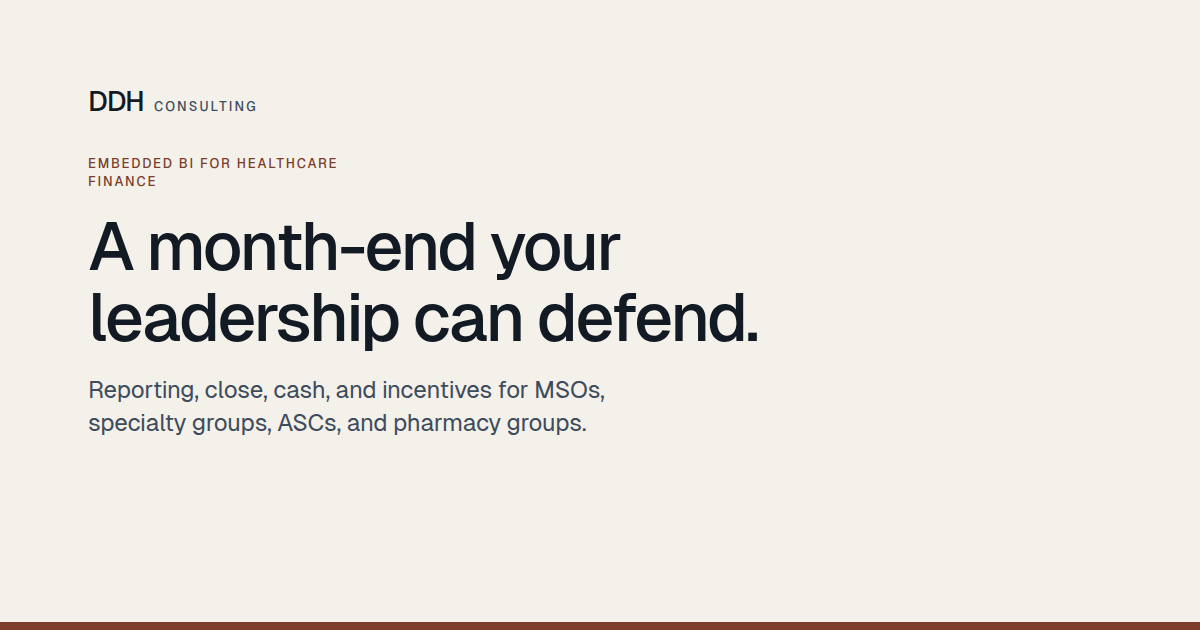
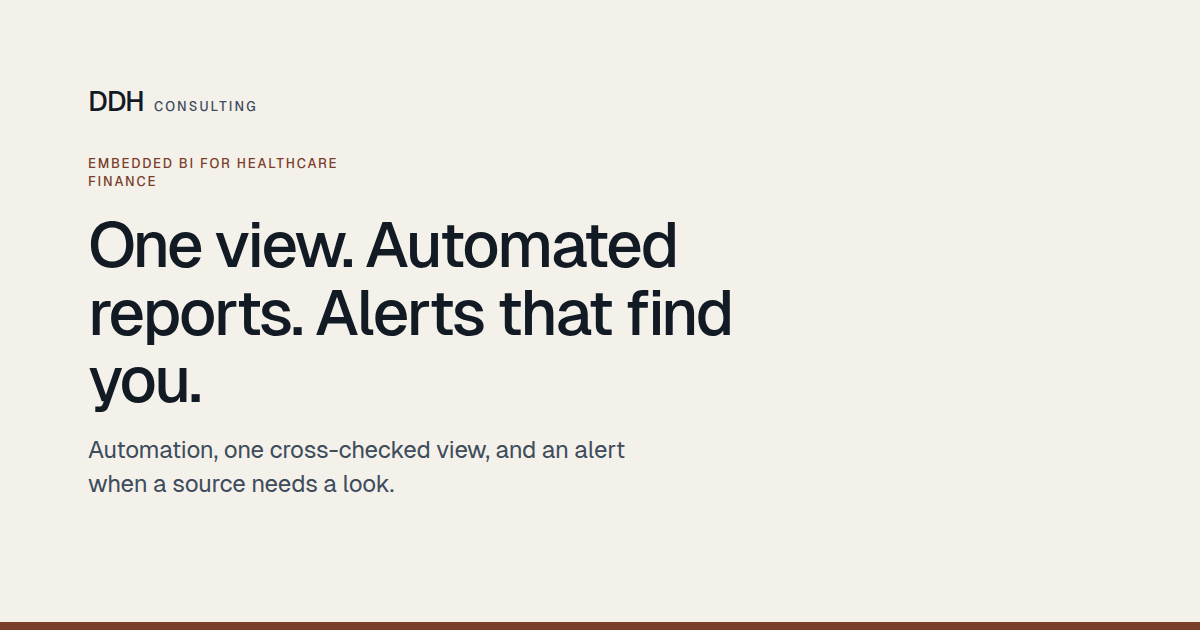
Reframe the hero around one view, automation, and alerts
Replace the month-end headline with a concrete retainer promise, and show a cross-referenced illustrative view with an example alert.

Changed region(s): [[0.0617, 0.3317, 0.6475, 0.5429], [0.0617, 0.573, 0.5242, 0.7238], [0.0617, 0.754, 0.3392, 0.7841]]

diff --git a/index.html b/index.html
@@ -4,9 +4,9 @@
 <meta charset="UTF-8">
 <meta name="viewport" content="width=device-width, initial-scale=1.0">
 <title>DDH Consulting | Embedded BI &amp; Reporting for Healthcare</title>
-<meta name="description" content="DDH Consulting is an embedded BI, reporting, and automation partner for healthcare finance leaders at MSOs, specialty groups, ASCs, and pharmacy groups.">
-<meta property="og:title" content="DDH Consulting | A month-end your leadership can defend">
-<meta property="og:description" content="An embedded BI, reporting, and automation retainer for healthcare finance and operations. Close, cash, incentives, and the systems behind them.">
+<meta name="description" content="DDH Consulting embeds with healthcare groups to automate reporting, cross-check finance, claims, operations, and provider data, and alert leadership when something needs a person.">
+<meta property="og:title" content="DDH Consulting | One view. Automated reports. Alerts that find you.">
+<meta property="og:description" content="An embedded monthly retainer for MSOs, physician groups, ASCs, and pharmacy groups. Automation, one cross-checked view, and alerts when a source needs a look.">
 <meta property="og:url" content="https://ddhbiconsulting.com/">
 <meta property="og:type" content="website">
 <meta property="og:image" content="https://ddhbiconsulting.com/social-card.png">
@@ -14,8 +14,8 @@
 <meta property="og:image:height" content="630">
 <meta property="og:site_name" content="DDH Consulting">
 <meta name="twitter:card" content="summary_large_image">
-<meta name="twitter:title" content="DDH Consulting | A month-end your leadership can defend">
-<meta name="twitter:description" content="An embedded BI, reporting, and automation retainer for healthcare finance and operations.">
+<meta name="twitter:title" content="DDH Consulting | One view. Automated reports. Alerts that find you.">
+<meta name="twitter:description" content="An embedded monthly retainer for healthcare groups. Automation, one cross-checked view, and alerts when a source needs a look.">
 <meta name="twitter:image" content="https://ddhbiconsulting.com/social-card.png">
 <link rel="canonical" href="https://ddhbiconsulting.com/">
 <link rel="icon" type="image/svg+xml" href="/favicon.svg?v=2">
@@ -40,7 +40,7 @@
   "@context": "https://schema.org",
   "@type": ["ProfessionalService", "LocalBusiness"],
   "name": "DDH Consulting",
-  "description": "DDH Consulting is an embedded BI, reporting, and automation partner for healthcare organizations. The firm works with finance and operations leaders at MSOs, physician and specialty groups, ambulatory surgery centers, and multi-location pharmacy groups on dashboards, month-end close, cash and forecasting, commission and incentive calculations, data pipelines, and BI modernization.",
+  "description": "DDH Consulting is an embedded BI, reporting, and automation partner for healthcare organizations. On a monthly retainer, the firm improves current reporting processes with automation, gives leadership one cross-referenced view of finance, claims, operations, and provider data, and sends alerts when something needs a person.",
   "url": "https://ddhbiconsulting.com",
   "email": "contact@ddhbiconsulting.com",
   "founder": {
@@ -66,7 +66,7 @@
   "@type": "FAQPage",
   "mainEntity": [
     {"@type": "Question","name": "Who is the retainer for?","acceptedAnswer": {"@type": "Answer","text": "Management services organizations, PE-backed physician and specialty groups (often on the order of 20 to 150 providers), ambulatory surgery centers and specialty groups, and multi-location pharmacy groups. The conversation is usually with a CFO, controller, COO, administrator, or operating partner."}},
-    {"@type": "Question","name": "What does a typical month include?","acceptedAnswer": {"@type": "Answer","text": "Scheduled management reporting, attention to the close, cash and forecast updates, commission or incentive calculations when they are in scope, a leadership review, and continued work on the pipelines and models. The mix is set in a written proposal after the Diagnostic."}},
+    {"@type": "Question","name": "What does a typical month include?","acceptedAnswer": {"@type": "Answer","text": "Automated reports, a cross-check across finance, claims, operations, and provider data, alerts when those sources stop agreeing, a leadership review, and continued work on the pipelines. Month-end close, cash, and incentive calculations are examples of that work when they are in scope. The mix is set in a written proposal after the Diagnostic."}},
     {"@type": "Question","name": "What is the Data & Reporting Diagnostic?","acceptedAnswer": {"@type": "Answer","text": "It is the first step after an introductory call. We review source systems, definitions, the close, and the questions leadership still cannot answer, then we write up the gaps and a recommended scope. Onboarding does not start until that proposal is agreed."}},
     {"@type": "Question","name": "Are the focus areas separate engagements?","acceptedAnswer": {"@type": "Answer","text": "No. Month-End Autopilot, Cash Truth, the Commission Engine, and BI Modernization are parts of the retainer. Some organizations need all four. Most begin with the ones the Diagnostic ranks highest."}},
     {"@type": "Question","name": "What systems do you work with?","acceptedAnswer": {"@type": "Answer","text": "The systems you already run: practice management, pharmacy, billing and claims, accounting, banking, and payroll, and the databases behind them. Reporting is delivered in Power BI, Excel, or Microsoft Fabric. If a system can produce an export or can be queried, we can work with it. Public datasets, including CMS and NPPES, are used where they improve a provider or market view."}},
@@ -122,8 +122,19 @@
   <div class="wrap hero-grid">
     <div>
       <p class="eyebrow">Embedded BI for healthcare finance</p>
-      <h1>A month-end your leadership can defend.</h1>
-      <p class="lede">DDH Consulting sits with finance and operations leaders at MSOs, physician and specialty groups, ASCs, and multi-location pharmacy groups. We build the reporting, the close, the cash picture, and the incentive calculations, and we keep them current on a monthly retainer.</p>
+      <!--
+        HERO OPTIONS. To swap, replace the h1 and the lede, then the title, description, and og/twitter tags in the head.
+        A (live): One view. Automated reports. Alerts that find you.
+          DDH embeds with MSOs, physician and specialty groups, ASCs, and pharmacy groups, automates the reporting you already run, cross-checks finance, claims, operations, and provider data, and notifies leadership when something needs a person.
+        B: See the whole business, and what just changed.
+          A monthly retainer that improves the reporting process with automation, puts finance, claims, operations, and provider data in one view, and sends an alert when they stop agreeing.
+        C: Cross-check the business. Flag what needs a look.
+          We sit with healthcare finance and operations leaders, automate the reports they already chase, and cross-reference the sources so issues show up without a dig through the files.
+        D: Stop digging. Let the issues come to you.
+          DDH improves current reporting with automation, gives leadership one view across the business, and notifies the right people when a number needs a decision.
+      -->
+      <h1>One view. Automated reports. Alerts that find you.</h1>
+      <p class="lede">DDH embeds with MSOs, physician and specialty groups, ASCs, and pharmacy groups, automates the reporting you already run, cross-checks finance, claims, operations, and provider data, and notifies leadership when something needs a person.</p>
       <div class="cta-row">
         <a class="btn btn-primary" href="https://calendly.com/pedroodahdah/30min" target="_blank" rel="noopener">Schedule a consultation</a>
         <a class="btn btn-secondary" href="/checkup.html">Take the free Reporting Health Check</a>
@@ -132,24 +143,26 @@
     </div>
     <div>
       <div class="board in" id="board" aria-hidden="true">
-        <div class="board-top"><span class="pill">Illustrative</span><span>Month view</span></div>
-        <div class="kpis">
-          <div class="kpi"><span>Close day</span><strong data-count="8">8</strong></div>
-          <div class="kpi"><span>Open items</span><strong data-count="4">4</strong></div>
-          <div class="kpi"><span>Sites in view</span><strong data-count="12">12</strong></div>
+        <div class="board-top"><span class="pill">Illustrative</span><span>Cross-referenced view</span></div>
+        <div class="sources">
+          <div class="source"><i></i>Finance</div>
+          <div class="source"><i></i>Claims</div>
+          <div class="source"><i></i>Operations</div>
+          <div class="source"><i></i>Providers</div>
         </div>
         <svg class="spark" viewBox="0 0 320 72" aria-hidden="true">
           <path class="area" d="M4 52 C40 50 48 28 80 30 C120 32 130 18 168 20 C210 22 220 40 260 28 C290 20 304 16 316 12 L316 68 L4 68 Z"/>
           <path pathLength="100" d="M4 52 C40 50 48 28 80 30 C120 32 130 18 168 20 C210 22 220 40 260 28 C290 20 304 16 316 12"/>
         </svg>
-        <div class="bars">
-          <div class="bar"><i style="--h:46%"></i><em>A</em></div>
-          <div class="bar"><i style="--h:72%"></i><em>B</em></div>
-          <div class="bar"><i style="--h:58%"></i><em>C</em></div>
-          <div class="bar"><i style="--h:84%"></i><em>D</em></div>
+        <div class="alert-card">
+          <span class="alert-dot"></span>
+          <div>
+            <strong>Alert · example only</strong>
+            <p>Two of these sources no longer agree. A person should look.</p>
+          </div>
         </div>
       </div>
-      <p class="board-caption">Example composition for the layout. Not a client result.</p>
+      <p class="board-caption">Illustrative layout. Not a client result, and not a real notification.</p>
     </div>
   </div>
 </section>
@@ -159,7 +172,7 @@
     <div class="section-head">
       <p class="eyebrow reveal">Who we serve</p>
       <h2 class="reveal">Organizations that have outgrown the workbook.</h2>
-      <p class="lede reveal">Finance and operations leaders who need reporting they can stand behind, and who are not staffing a full internal BI team to get it.</p>
+      <p class="lede reveal">Finance and operations leaders who want one view of the business, and who are not staffing a full internal BI team to get it.</p>
     </div>
     <ol class="index-list">
       <li class="reveal">
@@ -207,8 +220,8 @@
   <div class="wrap split">
     <div class="sticky-copy">
       <p class="eyebrow reveal">The situation</p>
-      <h2 class="reveal">The data is there. The system is not.</h2>
-      <p class="reveal">The organizations we sit with already have a practice, pharmacy, or billing system, a general ledger, bank activity, and payroll. None of it becomes a monthly picture until someone stitches it together. That stitching is the work.</p>
+      <h2 class="reveal">The sources never sit in one view.</h2>
+      <p class="reveal">Finance, claims, operations, and provider data already exist. They do not cross-check themselves, and nobody is told when they drift. Someone still has to go looking. Automation is how that stops.</p>
     </div>
     <div>
       <article class="issue reveal">
@@ -243,8 +256,8 @@
   <div class="wrap">
     <div class="section-head">
       <p class="eyebrow reveal">The retainer</p>
-      <h2 class="reveal">What an embedded partner does, month to month.</h2>
-      <p class="lede reveal">One principal is accountable for the reporting, the close, the cash picture, the calculations in scope, and the models those numbers come from. You meet that same person at the leadership review.</p>
+      <h2 class="reveal">What the retainer runs, month to month.</h2>
+      <p class="lede reveal">One principal automates the reports, keeps a cross-check across the sources in scope, and makes sure an alert reaches leadership when something needs a person. You meet that same person at the review.</p>
     </div>
     <div class="month-grid">
       <article class="month-card reveal"><span>01</span><h3>The package lands</h3><p>Management reporting by location, provider, payer, or service line, on a schedule.</p></article>
@@ -277,7 +290,7 @@
     <div class="section-head">
       <p class="eyebrow reveal">Focus areas</p>
       <h2 class="reveal">Four workstreams. One engagement.</h2>
-      <p class="lede reveal">These are the kinds of work a retainer includes, weighted to what the Diagnostic finds. They are parts of the engagement, not a menu.</p>
+      <p class="lede reveal">Month-End Autopilot, Cash Truth, the Commission Engine, and BI Modernization are examples of the automation inside the retainer. They are weighted to what the Diagnostic finds. They are parts of one engagement, not a menu.</p>
     </div>
     <div class="streams">
       <article class="stream reveal">
@@ -342,7 +355,7 @@
     <div class="section-head">
       <p class="eyebrow reveal">Why DDH</p>
       <h2 class="reveal">Healthcare finance, and the data underneath it.</h2>
-      <p class="lede reveal">The judgment and the system stay with one principal. Reporting that does not tie to the bank, the remittance, or the general ledger is not finished.</p>
+      <p class="lede reveal">The judgment and the system stay with one principal. A view that does not cross-check the bank, the remittance, the claims file, and the provider record is not finished.</p>
     </div>
     <div class="expert-grid">
       <article class="expert reveal"><div class="icon-bubble" aria-hidden="true"><svg viewBox="0 0 24 24" fill="none" stroke="currentColor" stroke-width="1.6"><path d="M4 7h16M6 7V5h12v2M7 7l1 12h8l1-12"/></svg></div><h3>Claims and revenue-cycle data</h3><p>What was billed, what was collected, and where the two disagree, by payer, site, and provider.</p></article>
@@ -426,7 +439,7 @@
       <h2 class="reveal">Common questions.</h2>
     </div>
     <div class="faq-item reveal"><button class="faq-q" type="button" aria-expanded="false">Who is the retainer for?<span aria-hidden="true">+</span></button><div class="faq-a"><div>Management services organizations, PE-backed physician and specialty groups (often on the order of 20 to 150 providers), ambulatory surgery centers and specialty groups, and multi-location pharmacy groups. The conversation is usually with a CFO, controller, COO, administrator, or operating partner.</div></div></div>
-    <div class="faq-item reveal"><button class="faq-q" type="button" aria-expanded="false">What does a typical month include?<span aria-hidden="true">+</span></button><div class="faq-a"><div>Scheduled management reporting, attention to the close, cash and forecast updates, commission or incentive calculations when they are in scope, a leadership review, and continued work on the pipelines and models. The mix is set in a written proposal after the Diagnostic.</div></div></div>
+    <div class="faq-item reveal"><button class="faq-q" type="button" aria-expanded="false">What does a typical month include?<span aria-hidden="true">+</span></button><div class="faq-a"><div>Automated reports, a cross-check across finance, claims, operations, and provider data, alerts when those sources stop agreeing, a leadership review, and continued work on the pipelines. Month-end close, cash, and incentive calculations are examples of that work when they are in scope. The mix is set in a written proposal after the Diagnostic.</div></div></div>
     <div class="faq-item reveal"><button class="faq-q" type="button" aria-expanded="false">What is the Data &amp; Reporting Diagnostic?<span aria-hidden="true">+</span></button><div class="faq-a"><div>It is the first step after an introductory call. We review source systems, definitions, the close, and the questions leadership still cannot answer, then we write up the gaps and a recommended scope. Onboarding does not start until that proposal is agreed.</div></div></div>
     <div class="faq-item reveal"><button class="faq-q" type="button" aria-expanded="false">Are the focus areas separate engagements?<span aria-hidden="true">+</span></button><div class="faq-a"><div>No. Month-End Autopilot, Cash Truth, the Commission Engine, and BI Modernization are parts of the retainer. Some organizations need all four. Most begin with the ones the Diagnostic ranks highest.</div></div></div>
     <div class="faq-item reveal"><button class="faq-q" type="button" aria-expanded="false">What systems do you work with?<span aria-hidden="true">+</span></button><div class="faq-a"><div>The systems you already run: practice management, pharmacy, billing and claims, accounting, banking, and payroll, and the databases behind them. Reporting is delivered in Power BI, Excel, or Microsoft Fabric. If a system can produce an export or can be queried, we can work with it. Public datasets, including CMS and NPPES, are used where they improve a provider or market view.</div></div></div>
@@ -456,7 +469,7 @@
     <div>
       <p class="eyebrow reveal">Write to us</p>
       <h2 class="reveal">Prefer to write first.</h2>
-      <p class="lede reveal">Send a note about the organization and the reporting, close, cash, or incentive question in front of you. Pedro replies personally within one business day. Please do not include patient information.</p>
+      <p class="lede reveal">Send a note about the organization and the view, report, or alert you want leadership to have. Pedro replies personally within one business day. Please do not include patient information.</p>
       <p class="fine reveal" style="margin-top:18px">Or <a href="https://calendly.com/pedroodahdah/30min" target="_blank" rel="noopener">book a 30-minute call</a>.</p>
     </div>
     <div>

diff --git a/checkup.html b/checkup.html
@@ -4,8 +4,8 @@
 <meta charset="UTF-8">
 <meta name="viewport" content="width=device-width, initial-scale=1.0">
 <title>Reporting Health Check | DDH Consulting</title>
-<meta name="description" content="Ten yes-or-no questions on month-end reporting for healthcare finance and operations leaders. See the gaps, then schedule a consultation. About three minutes.">
-<meta property="og:title" content="How healthy is your month-end? | DDH Consulting">
+<meta name="description" content="Ten yes-or-no questions on whether healthcare reporting still depends on someone digging. See the gaps, then schedule a consultation. About three minutes.">
+<meta property="og:title" content="How much of reporting still depends on you? | DDH Consulting">
 <meta property="og:description" content="A short Reporting Health Check for MSOs, physician groups, ASCs, and pharmacy groups. The result recommends a consultation and, if it is a fit, a Data &amp; Reporting Diagnostic.">
 <meta property="og:url" content="https://ddhbiconsulting.com/checkup.html">
 <meta property="og:type" content="website">
@@ -14,7 +14,7 @@
 <meta property="og:image:height" content="630">
 <meta property="og:site_name" content="DDH Consulting">
 <meta name="twitter:card" content="summary_large_image">
-<meta name="twitter:title" content="How healthy is your month-end? | DDH Consulting">
+<meta name="twitter:title" content="How much of reporting still depends on you? | DDH Consulting">
 <meta name="twitter:description" content="Ten questions for healthcare finance and operations leaders. Results point to a consultation and the Data &amp; Reporting Diagnostic.">
 <meta name="twitter:image" content="https://ddhbiconsulting.com/social-card-checkup.png">
 <link rel="canonical" href="https://ddhbiconsulting.com/checkup.html">
@@ -58,8 +58,8 @@
 <main id="main" class="check-main">
   <section id="quiz">
     <p class="eyebrow">Reporting Health Check</p>
-    <h1>How healthy is your month-end?</h1>
-    <p class="lede">Ten yes-or-no questions for finance and operations leaders at MSOs, physician and specialty groups, ASCs, and multi-location pharmacy groups. Answer for how the month actually runs. One question at a time. No email is required to see the result.</p>
+    <h1>How much of reporting still depends on you?</h1>
+    <p class="lede">Ten yes-or-no questions for finance and operations leaders at MSOs, physician and specialty groups, ASCs, and multi-location pharmacy groups. Answer for how reporting actually runs, including the close. One question at a time. No email is required to see the result.</p>
     <div class="progress-track" aria-hidden="true"><div class="progress-bar" id="bar"></div></div>
     <p class="progress-label" id="progressLabel">Question 1 of 10</p>
     <div class="q-card" id="qCard" aria-live="polite"></div>

diff --git a/assets/site.css b/assets/site.css
@@ -184,7 +184,7 @@ section[id] { scroll-margin-top: 96px; }
   gap: var(--s6);
   align-items: center;
 }
-.hero h1 { font-size: clamp(2.7rem, 4.6vw, 4.35rem); max-width: 11ch; margin-bottom: var(--s3); }
+.hero h1 { font-size: clamp(2.45rem, 4vw, 3.7rem); max-width: 13em; margin-bottom: var(--s3); }
 .hero .lede { margin-bottom: var(--s4); }
 .cta-row { display: flex; flex-wrap: wrap; gap: 12px; margin-bottom: var(--s2); }
 .hero .fine { margin-top: var(--s1); }
@@ -258,7 +258,49 @@ section[id] { scroll-margin-top: 96px; }
 .board.in .bar:nth-child(4) i { animation-delay: 240ms; }
 @keyframes rise { to { transform: scaleY(1); } }
 .bar em { font-style: normal; font-size: 0.72rem; color: var(--muted); font-weight: 500; }
+.sources { display: grid; grid-template-columns: repeat(4, 1fr); gap: 8px; margin-bottom: 14px; }
+.source {
+  background: var(--paper);
+  border-radius: 10px;
+  padding: 10px 8px;
+  text-align: center;
+  font-size: 0.72rem;
+  font-weight: 500;
+  letter-spacing: 0.04em;
+  text-transform: uppercase;
+  color: var(--ink);
+}
+.source i {
+  display: block;
+  width: 6px; height: 6px;
+  margin: 0 auto 6px;
+  border-radius: 50%;
+  background: var(--accent);
+}
+.alert-card {
+  display: flex;
+  gap: 12px;
+  align-items: flex-start;
+  margin-top: 8px;
+  padding: 12px;
+  border-radius: 12px;
+  background: var(--paper);
+  border: 1px solid var(--line);
+  opacity: 0;
+}
+.board.in .alert-card { animation: fade-in 500ms var(--ease) 280ms forwards; }
+.alert-dot {
+  width: 8px; height: 8px; border-radius: 50%;
+  background: var(--accent);
+  margin-top: 6px;
+  flex-shrink: 0;
+}
+.alert-card strong { display: block; font-size: 0.85rem; font-weight: 500; letter-spacing: -0.01em; color: var(--ink); }
+.alert-card p { font-size: 0.82rem; color: var(--muted); line-height: 1.4; }
 .board-caption { margin-top: 12px; font-size: 0.8rem; color: var(--muted); }
+@media (max-width: 780px) {
+  .sources { grid-template-columns: 1fr 1fr; }
+}
 
 /* Clients */
 .section { padding: var(--s7) 0; }
@@ -626,6 +668,7 @@ footer a:hover { color: #E0B08A; }
   }
   .js .reveal { opacity: 1; transform: none; }
   .bar i, .board::before, .spark path { transform: none; stroke-dashoffset: 0; }
+  .alert-card { opacity: 1; }
   .spark .area { opacity: 1; }
   .timeline::before { transform: none; }
 }
